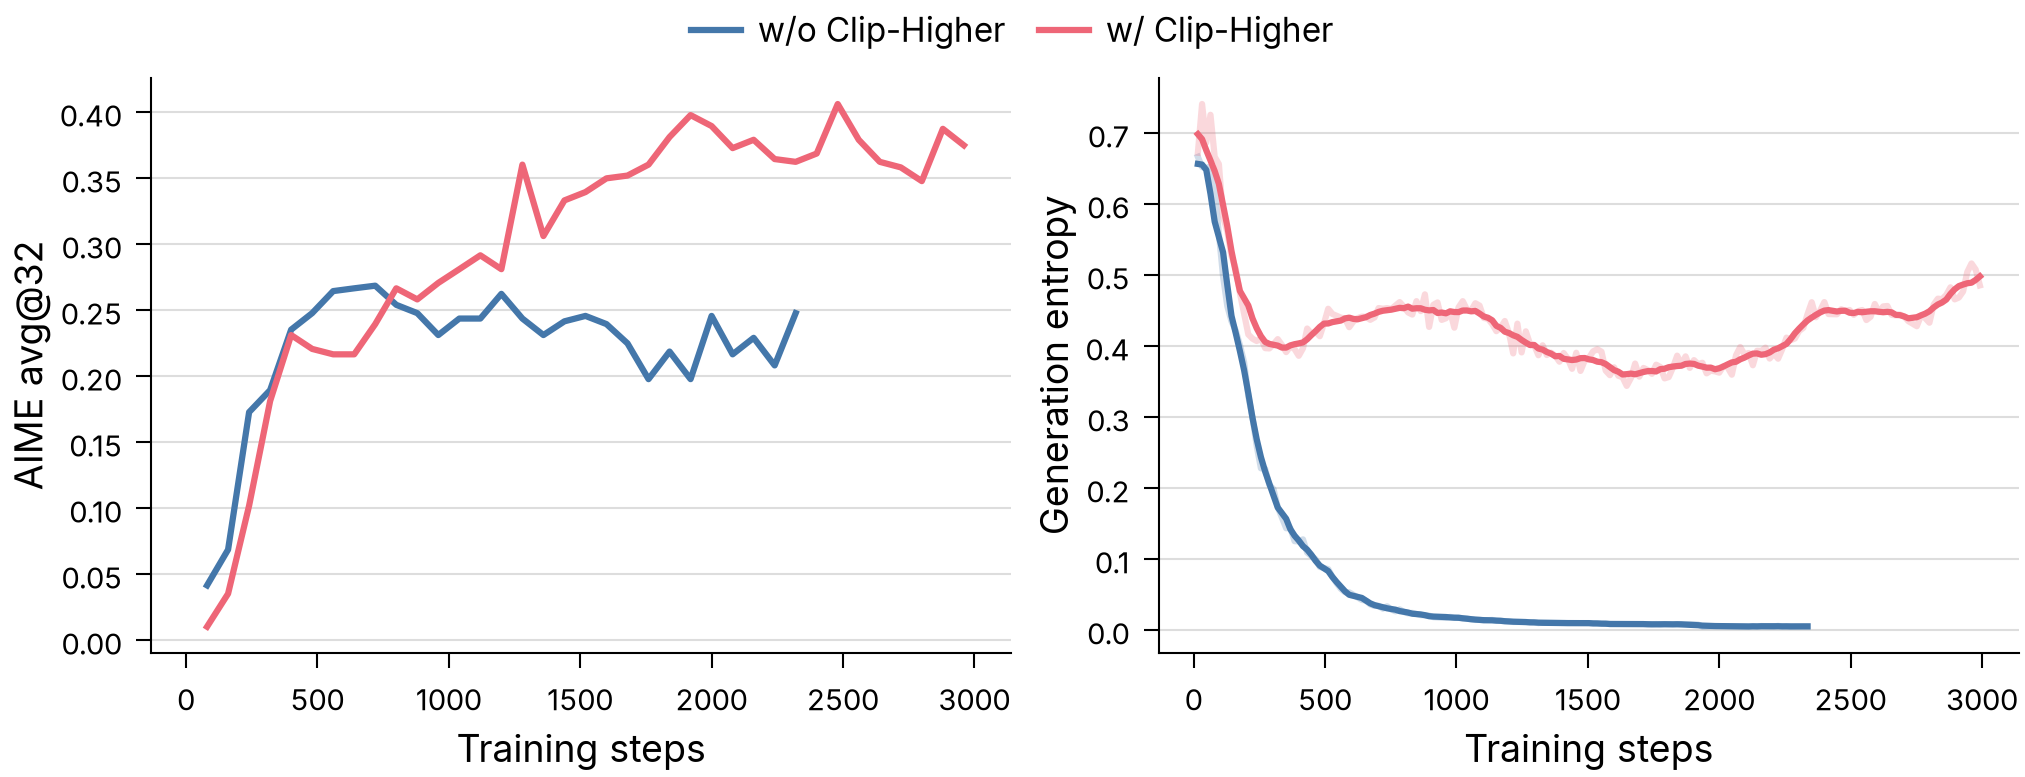
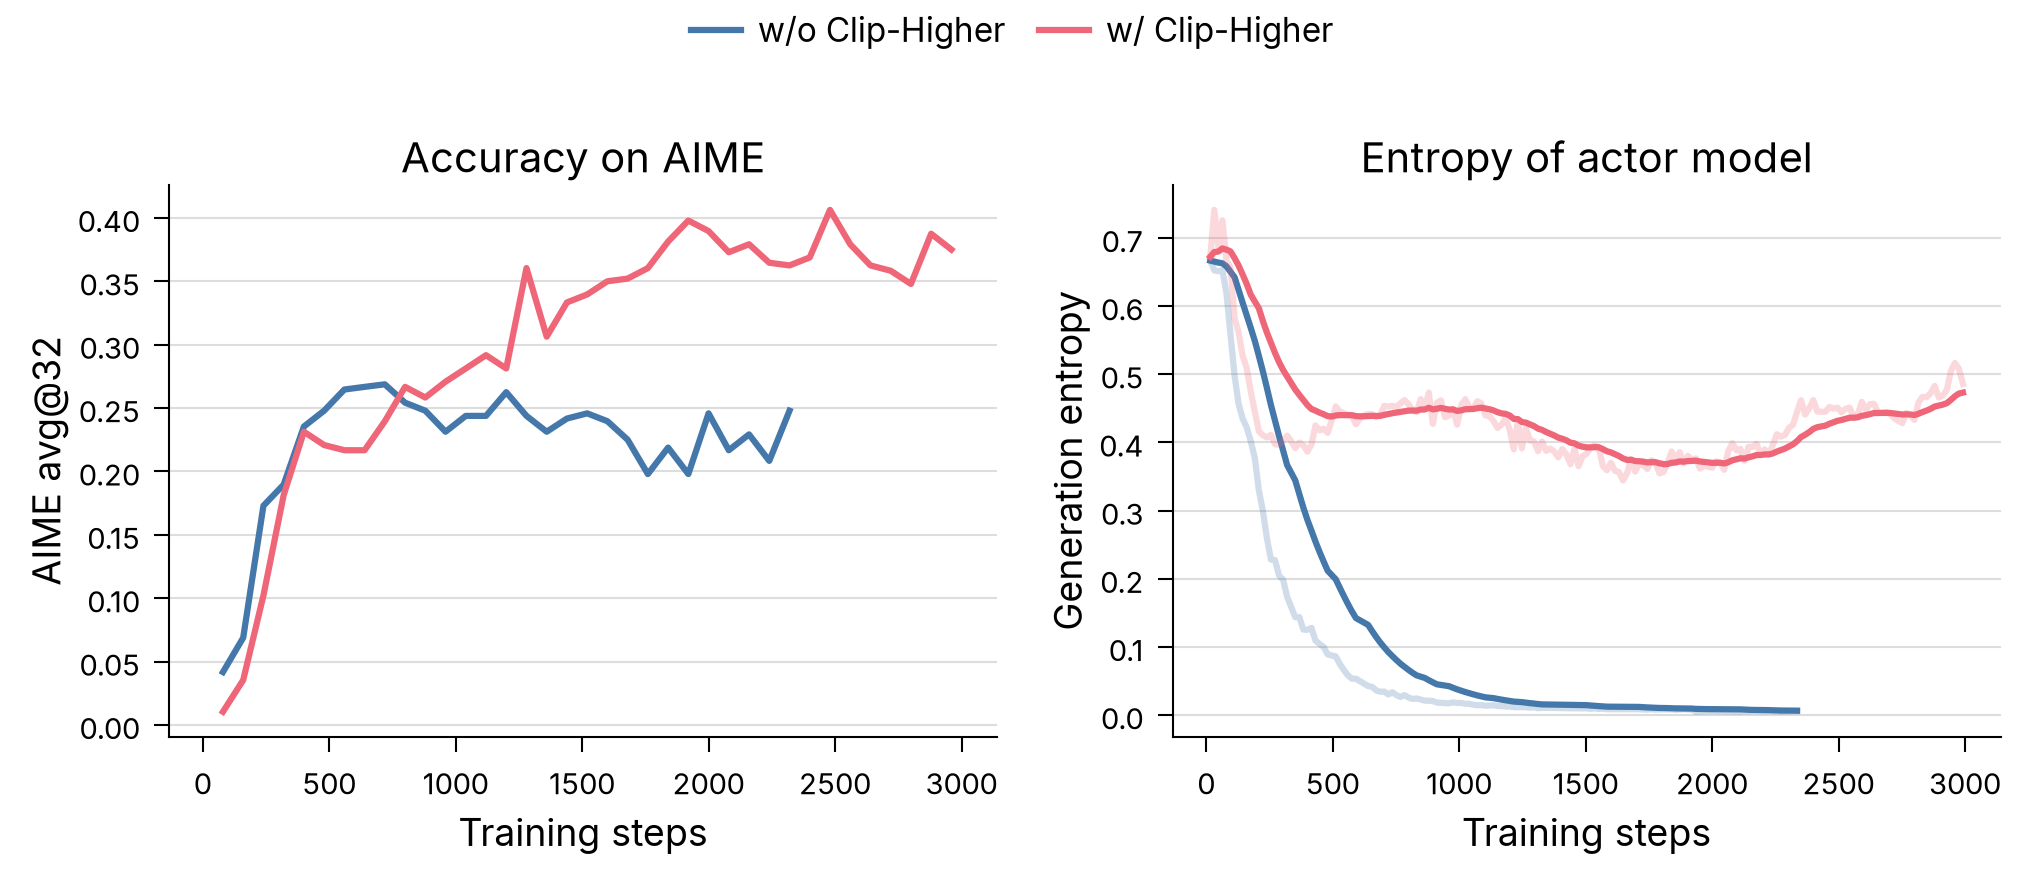
academic-figure: EMA smoothing, panel titles, fixed panel spacing
- Noisy per-step training curves: raw curve faint, EMA (weight 0.9) on top
- Panel titles in normal weight; DAPO examples get per-panel titles
- Panel spacing is a fixed 0.16 in instead of a fraction of panel size

diff --git a/examples/academic-figure.py b/examples/academic-figure.py
@@ -34,21 +34,31 @@ def shared_legend(fig, ax):
                frameon=False, borderaxespad=0, fontsize=8)
 
 
-def moving_average(values):
-    half = max(1, len(values) // 40)
-    return [sum(w) / len(w) for w in (values[max(0, i - half):i + half + 1] for i in range(len(values)))]
+def ema(values, weight=0.9):
+    out, last = [], values[0]
+    for v in values:
+        last = weight * last + (1 - weight) * v
+        out.append(last)
+    return out
 
 
 def plot_curve(ax, s, color, label=None, smooth=False):
     if smooth:
         ax.plot(s["step"], s["value"], color=color, alpha=0.25)
-        ax.plot(s["step"], moving_average(s["value"]), color=color, label=label)
+        ax.plot(s["step"], ema(s["value"]), color=color, label=label)
     else:
         ax.plot(s["step"], s["value"], color=color, label=label)
 
 
-def ablation(name, keys, ylabels, ours, other, smooth):
-    fig, axes = plt.subplots(1, 2, figsize=(DOUBLE, 2), sharex=True)
+def panels(rows, titles, sharex=False):
+    fig, axes = plt.subplots(rows, 2, figsize=(DOUBLE, 2 * rows), sharex=sharex)
+    for ax, title in zip(axes.flat, titles):
+        ax.set_title(title)
+    return fig, list(axes.flat)
+
+
+def ablation(name, keys, captions, ylabels, ours, other, smooth):
+    fig, axes = panels(1, captions, sharex=True)
     for ax, key, ylabel, sm in zip(axes, keys, ylabels, smooth):
         for label, color in [(other, cset.blue), (ours, cset.red)]:
             plot_curve(ax, data[key][label], color, label, sm)
@@ -79,7 +89,7 @@ def fig1():
 
 
 def fig3():
-    fig, axes = plt.subplots(1, 2, figsize=(DOUBLE, 2))
+    fig, axes = panels(1, ["Mean up-clipped probability", "Samples with an accuracy of 1"])
     for ax, key, ylabel in zip(axes, ["fig3a", "fig3b"],
                                ["Mean up-clipped probability", "Prompts with accuracy = 1"]):
         plot_curve(ax, data[key], cset.blue, smooth=True)
@@ -105,25 +115,28 @@ def fig6():
 
 
 def fig7():
-    fig, axes = plt.subplots(2, 2, figsize=(DOUBLE, 4), sharex=True)
-    for ax, key, ylabel in zip(axes.flat, ["fig7a", "fig7b", "fig7c", "fig7d"],
-                               ["Mean response length", "Reward score", "Generation entropy",
-                                "Mean probability"]):
+    labels = ["Mean response length", "Reward score", "Generation entropy", "Mean probability"]
+    fig, axes = panels(2, labels, sharex=True)
+    for ax, key, ylabel in zip(axes, ["fig7a", "fig7b", "fig7c", "fig7d"], labels):
         ax.plot(data[key]["step"], data[key]["value"], color=cset.blue)
         ax.set_ylabel(ylabel)
-    for ax in axes[1]:
+    for ax in axes[2:]:
         ax.set_xlabel("Training steps")
     fit_height(fig, axes)
     save(fig, "fig7")
 
 
 fig1()
-ablation("fig2", ["fig2a", "fig2b"], ["AIME avg@32", "Generation entropy"],
+ablation("fig2", ["fig2a", "fig2b"], ["Accuracy on AIME", "Entropy of actor model"],
+         ["AIME avg@32", "Generation entropy"],
          "w/ Clip-Higher", "w/o Clip-Higher", smooth=(False, True))
 fig3()
-ablation("fig4", ["fig4a", "fig4b"], ["Generation entropy", "Mean response length"],
+ablation("fig4", ["fig4a", "fig4b"],
+         ["Entropy of generation probabilities", "Average response length"],
+         ["Generation entropy", "Mean response length"],
          "w/ token-level loss", "w/o token-level loss", smooth=(True, True))
-ablation("fig5", ["fig5a", "fig5b"], ["AIME avg@32", "Generation entropy"],
+ablation("fig5", ["fig5a", "fig5b"], ["Performance on AIME", "Entropy of actor model"],
+         ["AIME avg@32", "Generation entropy"],
          "w/ overlong filtering", "w/o overlong filtering", smooth=(False, True))
 fig6()
 fig7()

diff --git a/skills/academic-figure/SKILL.md b/skills/academic-figure/SKILL.md
@@ -66,13 +66,13 @@ plt.style.use("paper.mplstyle")
 
 It needs `tol-colors` (Paul Tol's own palette package; Python 3.10+) in the project's Python; if it is missing, tell the user and ask before installing it.
 
-It sets fonts (Inter for all text and math, STIX Sans for math symbols Inter lacks: labels 9, ticks 7, legend 7, titles 10 pt bold), left+bottom spines, 0.5 pt axes and ticks, horizontal #DDDDDD gridlines, lines and markers, the `bright` color cycle and `tol.iridescent` colormap (§4), legend frame defaults, constrained layout, 300 dpi, and fonttype 42 (PDF text stays text with Inter embedded, so it renders the same anywhere).
+It sets fonts (Inter for all text and math, STIX Sans for math symbols Inter lacks: labels 9, ticks 7, legend 7, titles 10 pt), left+bottom spines, 0.5 pt axes and ticks, horizontal #DDDDDD gridlines, lines and markers, the `bright` color cycle and `tol.iridescent` colormap (§4), legend frame defaults, constrained layout, 300 dpi, and fonttype 42 (PDF text stays text with Inter embedded, so it renders the same anywhere).
 
 - If text renders in DejaVu Sans, `paper` was not imported before plotting; fix that.
 - No figure title. Panel identifiers (dataset, setting) go in the axes title, never as text inside the axes.
 - Subsampled markers: at x major tick positions (mask by x value, not index step).
 - Don't set axis limits exactly at the first or last data point (e.g. `set_xlim(0, 1)` for x in [0, 1]); markers there get cut in half. Keep the default margin.
-- Noisy per-step training curves (≥ ~100 points: loss, reward, entropy, length): draw the raw curve in the same color at `alpha` 0.25 with no label, then a centered moving average on top with the label, and say so in the caption ("smoothed with a centered moving average over 5% of the steps; faint lines show raw values"). Window: `half = max(1, len(values) // 40)` points on each side, shrinking at the ends. Not EMA: it lags, shifting curves right and flattening peaks. Don't smooth evaluation curves with few points, or curves whose best step or peak value is marked.
+- Noisy per-step training curves (≥ ~100 points: loss, reward, entropy, length): draw the raw curve in the same color at `alpha` 0.25 with no label, then an EMA (weight 0.9) on top with the label, and say so in the caption ("EMA-smoothed, weight 0.9; faint lines show raw values"). EMA: `last = 0.9 * last + 0.1 * v` over the values, starting from the first value. Don't smooth evaluation curves with few points, or curves whose best step or peak value is marked.
 - Reference lines (max/min, regression, threshold): color of related data, `--`, `alpha` 0.5, behind data, `linewidth=1` (thinner than the 1.5 data lines).
 - Category axes (bar charts, text tick labels): no tick marks, `ax.tick_params(axis="x", length=0)` (or `axis="y"` for horizontal bars); the label under each bar already marks it. With shared axes, apply it to every panel, including those whose labels are hidden.
 - Value labels (numbers on bars or points, e.g. `bar_label`): `fontsize=6`; the proposed method's ("Ours") labels bold.
